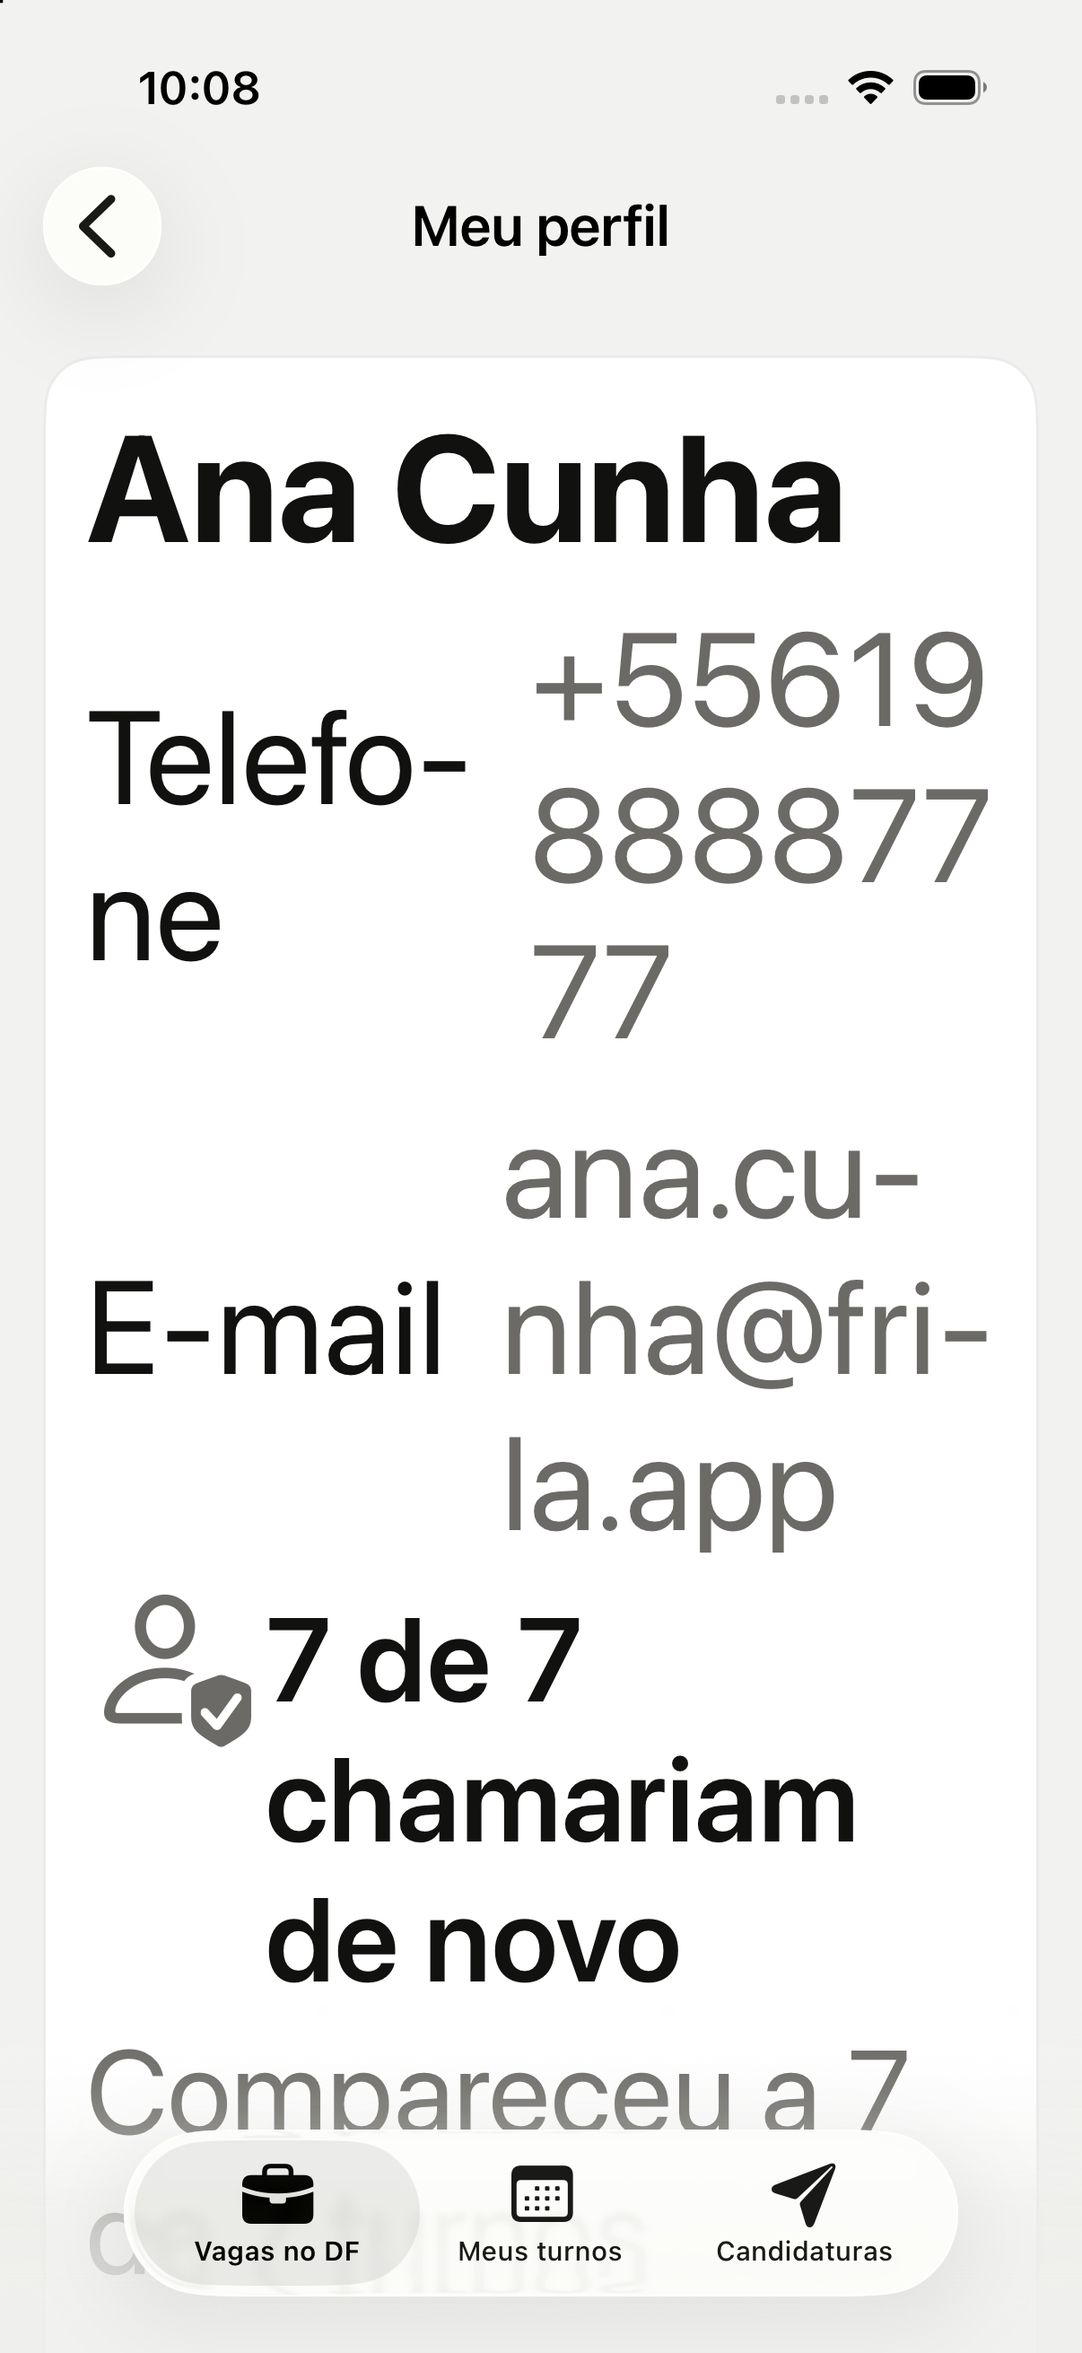
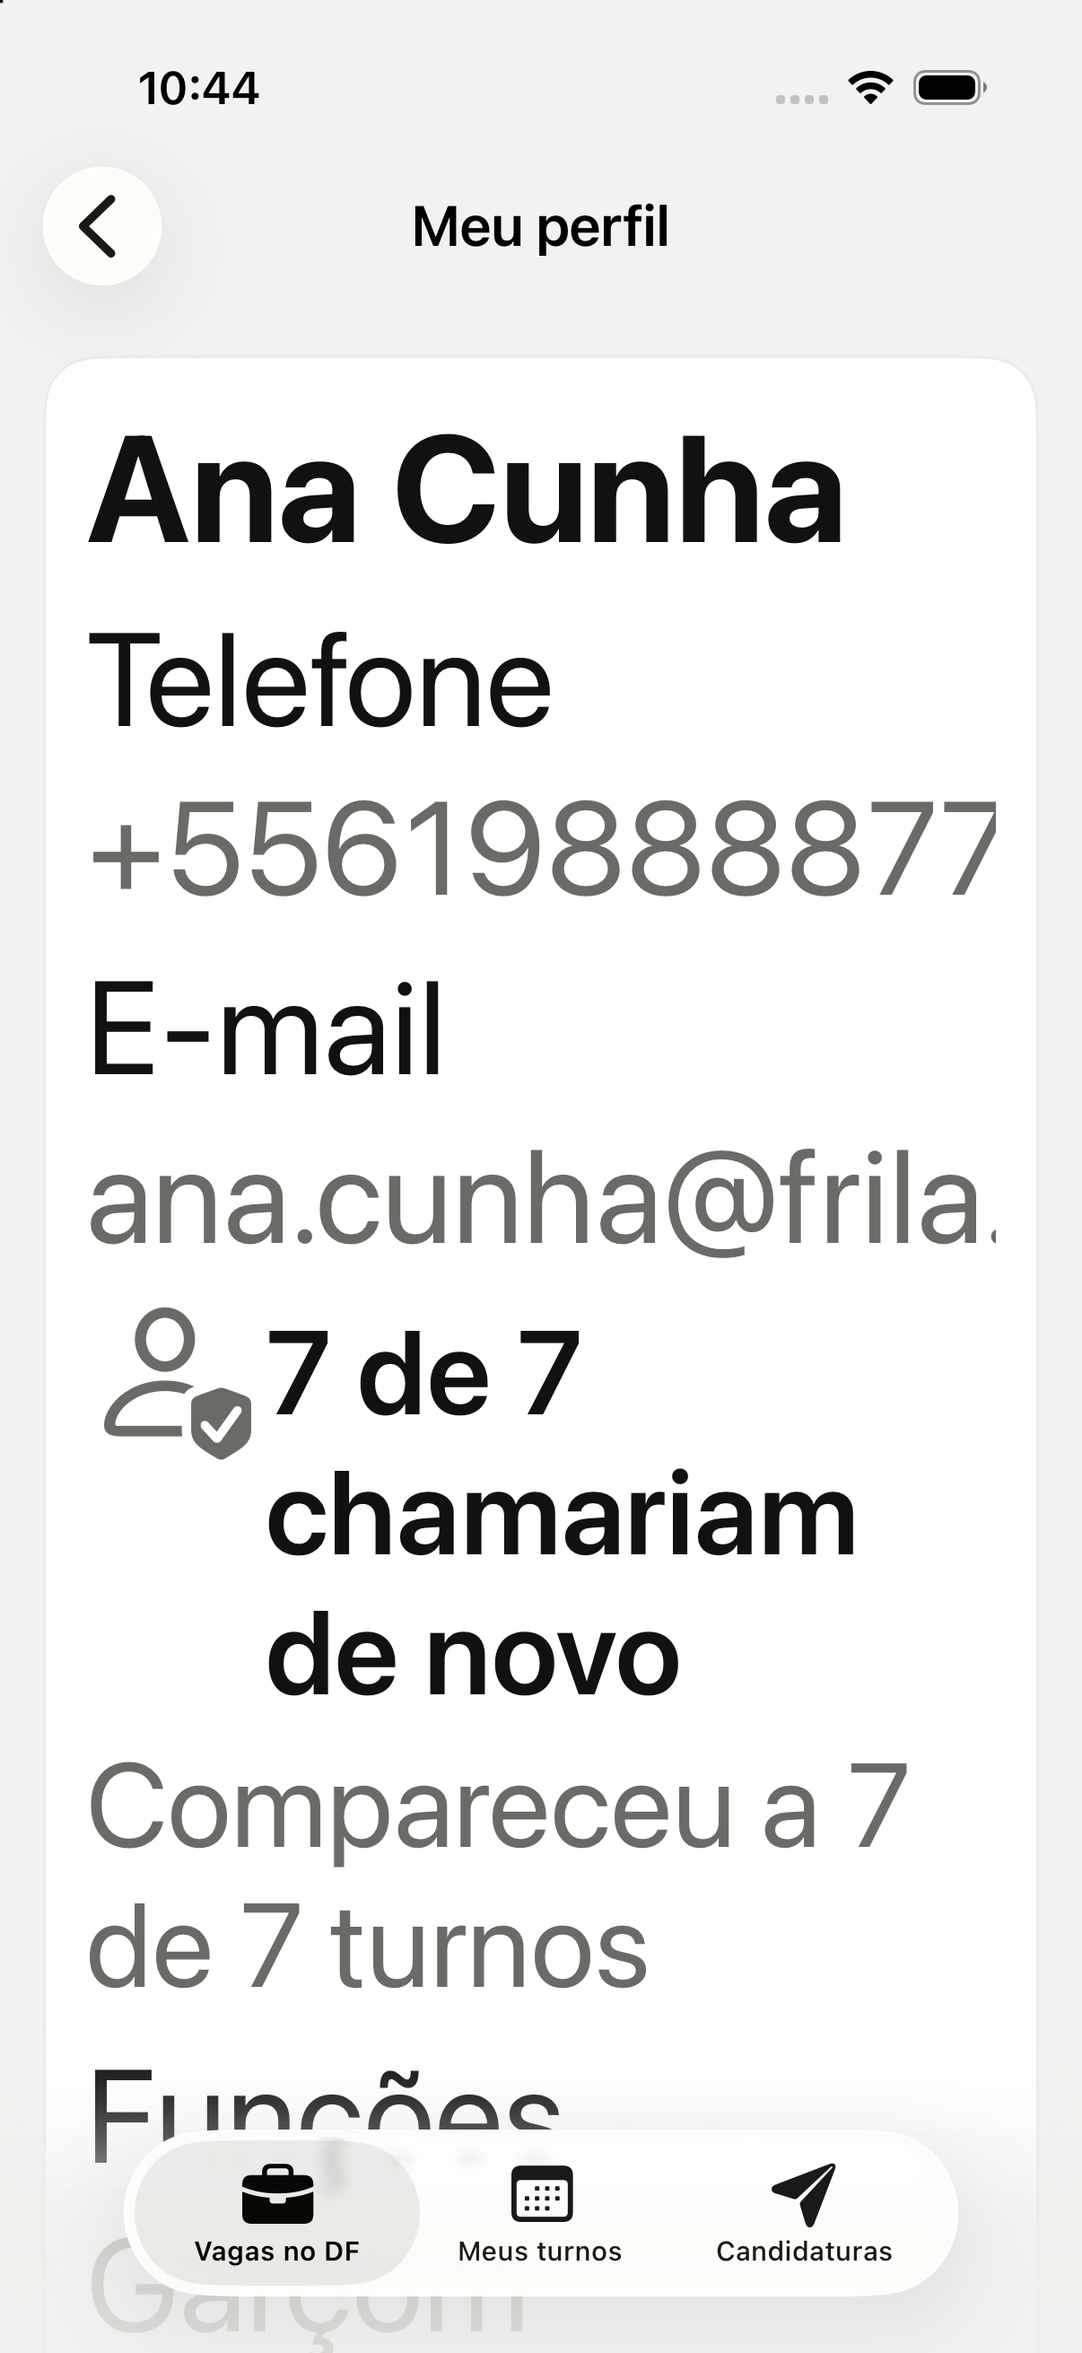
fix(ios): empilhar dados de Meu perfil em acessibilidade

diff --git a/iOS/Sources/Apresentacao/Fluxos/Perfil/PerfisDaConta.swift b/iOS/Sources/Apresentacao/Fluxos/Perfil/PerfisDaConta.swift
@@ -162,6 +162,7 @@ struct BotaoDeExclusaoDeConta: View {
 
 /// Perfil do profissional (#18), no quadro "MeuPerfil" do MidFi do Fabrício: dados no cartão, linhas num cartão único com chevron e "Excluir conta" de contorno.
 public struct TelaMeuPerfilProfissional: View {
+    @Environment(\.dynamicTypeSize) private var dynamicTypeSize
     @State private var despachoModel: PorQueReceboVagasViewModel
     @State private var model: MeuPerfilProfissionalViewModel
     @State private var exportarModel: ExportarDadosViewModel
@@ -188,11 +189,11 @@ public struct TelaMeuPerfilProfissional: View {
                 else if let conta = model.conta, let perfil = model.perfil {
                     VStack(alignment: .leading, spacing: FrilaEspaco.pequeno) {
                         Text(verbatim: conta.nome).font(Font.title2.bold()).foregroundStyle(FrilaCor.texto).accessibilityAddTraits(.isHeader)
-                        linha(TextosPerfilConta.telefone, conta.telefone)
-                        linha(TextosPerfilConta.email, conta.email)
+                        linha(TextosPerfilConta.telefone, conta.telefone, id: "perfil-telefone", contato: true)
+                        linha(TextosPerfilConta.email, conta.email, id: "perfil-email", contato: true)
                         if let reputacao = model.perfilPublico?.reputacao { SeloReputacao(reputacao) }
-                        linha(TextosPerfilConta.funcao, perfil.funcoes.map(\.nome).joined(separator: ", "))
-                        linha(TextosPerfilConta.horarios, perfil.disponibilidades.isEmpty ? TextosPerfilConta.naoInformado : String(localized: "\(perfil.disponibilidades.count) horários cadastrados", bundle: bundleApresentacao))
+                        linha(TextosPerfilConta.funcao, perfil.funcoes.map(\.nome).joined(separator: ", "), id: "perfil-funcoes")
+                        linha(TextosPerfilConta.horarios, perfil.disponibilidades.isEmpty ? TextosPerfilConta.naoInformado : String(localized: "\(perfil.disponibilidades.count) horários cadastrados", bundle: bundleApresentacao), id: "perfil-horarios")
                     }
                     .frame(maxWidth: .infinity, alignment: .leading)
                     .cartaoFrila()
@@ -240,17 +241,37 @@ public struct TelaMeuPerfilProfissional: View {
         .sheet(isPresented: $mostrarAjuda) { TelaAjudaPerfil(enderecos: enderecos) }
     }
 
-    private func linha(_ titulo: String, _ valor: String) -> some View {
-        LabeledContent {
-            Text(verbatim: valor.isEmpty ? TextosPerfilConta.naoInformado : valor)
-                .font(FrilaTipo.meta)
-                .foregroundStyle(FrilaCor.textoSecundario)
-        } label: {
-            Text(verbatim: titulo)
-                .font(FrilaTipo.meta)
-                .foregroundStyle(FrilaCor.texto)
+    @ViewBuilder
+    private func linha(_ titulo: String, _ valor: String, id: String, contato: Bool = false) -> some View {
+        let rotulo = Text(verbatim: titulo)
+            .font(FrilaTipo.meta)
+            .foregroundStyle(FrilaCor.texto)
+            .accessibilityIdentifier("\(id)-rotulo")
+        let conteudo = Text(verbatim: valor.isEmpty ? TextosPerfilConta.naoInformado : valor)
+            .font(FrilaTipo.meta)
+            .foregroundStyle(FrilaCor.textoSecundario)
+            .accessibilityIdentifier("\(id)-valor")
+        if dynamicTypeSize.isAccessibilitySize {
+            VStack(alignment: .leading, spacing: FrilaEspaco.minimo) {
+                rotulo.fixedSize(horizontal: false, vertical: true)
+                if contato {
+                    // Contatos longos permanecem inteiros, com o fim acessível por rolagem.
+                    ScrollView(.horizontal) {
+                        conteudo.fixedSize(horizontal: true, vertical: false)
+                            .frame(minHeight: FrilaMetrica.alvoMinimo, alignment: .leading)
+                    }
+                    .fixedSize(horizontal: false, vertical: true)
+                    .accessibilityIdentifier("\(id)-rolagem")
+                } else {
+                    conteudo.fixedSize(horizontal: false, vertical: true)
+                }
+            }
+            .frame(maxWidth: .infinity, alignment: .leading)
+            .accessibilityElement(children: .contain)
+        } else {
+            LabeledContent { conteudo } label: { rotulo }
+                .accessibilityElement(children: .combine)
         }
-        .accessibilityElement(children: .combine)
     }
 
     /// "Excluir conta" do MidFi: botão de contorno `perigo` num cartão próprio, longe das linhas comuns.

diff --git a/iOS/Tests/UI/AcessibilidadeDoProfissionalUITests.swift b/iOS/Tests/UI/AcessibilidadeDoProfissionalUITests.swift
@@ -153,6 +153,75 @@ final class AcessibilidadeDoProfissionalUITests: XCTestCase {
         conferirDisponibilidade(ax5: true)
     }
 
+    func testMeuPerfilContatosNoTamanhoPadrao() {
+        conferirContatosDoPerfil(ax5: false)
+    }
+
+    func testMeuPerfilContatosEmAX5SemPartirValores() {
+        conferirContatosDoPerfil(ax5: true)
+    }
+
+    private func conferirContatosDoPerfil(ax5: Bool) {
+        let app = XCUIApplication()
+        app.launchArguments = ["-FRILA_SCENARIO", "success"]
+        if ax5 { app.launchArguments += ["-UIPreferredContentSizeCategoryName", Self.ax5] }
+        app.launch()
+        defer { app.terminate() }
+        let perfil = app.buttons["abrir-meu-perfil"]
+        XCTAssertTrue(perfil.waitForExistence(timeout: 10))
+        perfil.tap()
+        XCTAssertTrue(app.buttons["perfil-funcoes-horarios"].waitForExistence(timeout: 10))
+        capturarDisponibilidade(app, nome: ax5 ? "perfil-ax5" : "perfil-padrao")
+
+        let categoria: UIContentSizeCategory = ax5 ? .accessibilityExtraExtraExtraLarge : .large
+        let fonte = UIFont.preferredFont(forTextStyle: .subheadline, compatibleWith: UITraitCollection(preferredContentSizeCategory: categoria))
+        for id in ["perfil-telefone", "perfil-email", "perfil-funcoes", "perfil-horarios"] {
+            let rotulo = app.staticTexts["\(id)-rotulo"]
+            let valor = app.staticTexts["\(id)-valor"]
+            guard rotulo.exists && valor.exists else {
+                XCTFail("Rótulo e valor identificáveis: \(id)")
+                return
+            }
+            if ax5 {
+                for _ in 0..<10 where !valor.isHittable { app.swipeUp() }
+                XCTAssertGreaterThanOrEqual(valor.frame.minY, rotulo.frame.maxY, "\(id): rótulo acima do valor")
+                XCTAssertTrue(valor.isHittable, id)
+            } else {
+                XCTAssertLessThan(abs(rotulo.frame.midY - valor.frame.midY), 2, "\(id): aparência horizontal preservada")
+            }
+            if id == "perfil-telefone" || id == "perfil-email" {
+                XCTAssertEqual(valor.label, id == "perfil-telefone" ? "+5561988887777" : "ana.cunha@frila.app")
+                XCTAssertGreaterThanOrEqual(valor.frame.height, fonte.lineHeight - 2, "A fonte acompanha Dynamic Type sem encolher")
+                XCTAssertLessThan(valor.frame.height, fonte.lineHeight * 1.5, "Contato inteiro em uma linha, sem hifenização")
+                if ax5 {
+                    let rolagem = app.scrollViews["\(id)-rolagem"]
+                    XCTAssertTrue(rolagem.exists)
+                    XCTAssertAlvoMinimo(rolagem.frame.height)
+                    XCTAssertLessThanOrEqual(rolagem.frame.maxX, app.frame.maxX)
+                    if valor.frame.width > rolagem.frame.width {
+                        let xAntes = valor.frame.minX
+                        rolagem.swipeLeft()
+                        XCTAssertLessThan(valor.frame.minX, xAntes, "O fim do contato fica acessível por rolagem")
+                        XCTAssertLessThanOrEqual(valor.frame.maxX, rolagem.frame.maxX + 2)
+                    }
+                }
+            }
+            if ax5 && id == "perfil-email" {
+                capturarDisponibilidade(app, nome: "perfil-ax5-contatos-fim")
+            }
+        }
+        if ax5 {
+            let funcoes = app.staticTexts["perfil-funcoes-rotulo"]
+            for _ in 0..<4 where funcoes.frame.minY < 130 {
+                let inicio = app.coordinate(withNormalizedOffset: CGVector(dx: 0.04, dy: 0.30))
+                let fim = app.coordinate(withNormalizedOffset: CGVector(dx: 0.04, dy: 0.43))
+                inicio.press(forDuration: 0.05, thenDragTo: fim)
+            }
+            XCTAssertGreaterThanOrEqual(funcoes.frame.minY, 130)
+            capturarDisponibilidade(app, nome: "perfil-ax5-funcoes-horarios")
+        }
+    }
+
     private func conferirDisponibilidade(ax5: Bool) {
         let app = XCUIApplication()
         app.launchArguments = ["-FRILA_SCENARIO", "success"]

diff --git a/evidencias/ux-04-perfil-profissional/README.md b/evidencias/ux-04-perfil-profissional/README.md
@@ -10,9 +10,15 @@ Editar dia, início ou fim marca a faixa como pendente. Salvar inclui essa faixa
 
 Início igual ao fim bloqueia o envio. Fim anterior ao início continua válido, inclusive 18:00–02:00 e 23:59–00:00, conforme esclarecimento de Nick Fury (#98 C2). A devolução acrescenta três testes: 23:59–00:00 aceito, 00:00–00:00 rejeitado sem chamada à API e inválido → salvar → corrigir → salvar com mensagem limpa.
 
+## Meu perfil — devolução 2
+
+Em tamanhos de acessibilidade, Telefone, E-mail, Funções e Horários disponíveis têm rótulo acima do valor. O tamanho padrão conserva o `LabeledContent` horizontal, as fontes, as cores e os espaçamentos anteriores. A comparação visual da nova captura padrão com a do head `8a8b903` preserva a aparência do conteúdo.
+
+Telefone e e-mail usam uma linha com largura natural e rolagem horizontal, sem hifenização, reticências nem redução da fonte. Em AX5, ambos excedem a largura disponível: a captura inicial mostra o começo, e `perfil-ax5-contatos-fim.png` mostra o final após a rolagem. O texto completo permanece na árvore de acessibilidade. O alvo da rolagem tem altura mínima de 44 pt. Funções e Horários podem ocupar várias linhas abaixo dos rótulos, sem limite artificial de altura.
+
 ## Ambiente e capturas desta revisão
 
-17/10/2026, 10:07–10:08, simulador Homem-Aranha, iPhone 17, iOS 26.5, UDID `85940BCB-553C-4145-8F8E-E83423D86431`; dados fictícios do cenário `success`. Resolução original: 1206 × 2622 pixels. Tamanho padrão e `UICTContentSizeCategoryAccessibilityXXXL` (AX5).
+17/10/2026: capturas de horários às 10:07–10:08; as imagens de Meu perfil foram substituídas na devolução 2 às 10:44–10:45 (horário visível em cada imagem). Simulador Homem-Aranha, iPhone 17, iOS 26.5, UDID `85940BCB-553C-4145-8F8E-E83423D86431`; dados fictícios do cenário `success`. Resolução original: 1206 × 2622 pixels. Tamanho padrão e `UICTContentSizeCategoryAccessibilityXXXL` (AX5).
 
 O portal não fornecia stream com o canvas fechado. Por autorização expressa do usuário, as imagens foram obtidas com `xcrun simctl io <UDID> screenshot <arquivo>`, somente nesse UDID, segurando a vez pela fila. Navegação e rolagens foram feitas por XCTest. Não foi aberto o aplicativo Simulator. As pausas temporárias usadas para sincronizar a coleta foram removidas do teste entregue; os anexos XCTest permanecem.
 
@@ -20,15 +26,27 @@ O portal não fornecia stream com o canvas fechado. Por autorização expressa d
 | --- | --- |
 | [horarios-padrao.png](horarios-padrao.png) | Dia inteiro, duas rodas contidas nas colunas, Início/Fim, Adicionar e janela noturna existente |
 | [horarios-ax5.png](horarios-ax5.png) | “Sexta-feira” inteiro em AX5, duas rodas lado a lado e Adicionar visível |
-| [perfil-padrao.png](perfil-padrao.png) | Tela vizinha Meu perfil, antes de abrir Funções e horários |
-| [perfil-ax5.png](perfil-ax5.png) | Tela vizinha em AX5; quebras de linha existentes no telefone/e-mail, sem alteração nesta missão |
+| [perfil-padrao.png](perfil-padrao.png) | Nova captura: aparência horizontal de Meu perfil preservada no tamanho padrão |
+| [perfil-ax5.png](perfil-ax5.png) | Nova captura AX5: rótulos Telefone/E-mail acima dos valores, contatos em linha única na posição inicial |
+| [perfil-ax5-contatos-fim.png](perfil-ax5-contatos-fim.png) | AX5 após rolagem horizontal: final do telefone e do e-mail acessíveis |
+| [perfil-ax5-funcoes-horarios.png](perfil-ax5-funcoes-horarios.png) | AX5 após rolagem vertical: Funções e Horários disponíveis com rótulo acima do valor |
 
-## Testes executados nesta revisão
+## Validação da devolução 2
+
+- Regressão com o código final, sem pausas de captura: **1.265 passaram, 0 falharam, 0 pulados**. Inclui todos os **1.250 unitários** (`FrilaTests`) e a classe completa **AcessibilidadeDoProfissionalUITests, 15 testes**. Comando: `vigia/xcb.sh 'Homem-Aranha' -- xcodebuild test -project iOS/Frila.xcodeproj -scheme Frila-Local -destination 'platform=iOS Simulator,id=85940BCB-553C-4145-8F8E-E83423D86431' -derivedDataPath DerivedData-UX04-Devolucao2 -resultBundlePath resultados-ux04-devolucao2-final -parallel-testing-enabled NO -collect-test-diagnostics never -only-testing:FrilaTests -only-testing:FrilaUITests/AcessibilidadeDoProfissionalUITests CODE_SIGNING_ALLOWED=YES CODE_SIGN_IDENTITY=-`.
+- Log final: `/Users/cauecarneiro/Documents/Projetos/Apps/.workers/vigia/logs-xcodebuild/homem-aranha-20261017-104036-85517.log`.
+- Os dois testes novos conferem os quatro pares de rótulo/valor: alinhamento horizontal no padrão e rótulo acima do valor em AX5; contatos com texto completo, altura compatível com a fonte escalada e uma única linha; viewport contido no cartão e alvo mínimo de 44 pt; rolagem até o fim de telefone/e-mail. Também percorrem os campos inferiores, deixando Funções fora da barra de navegação para a captura. Os testes anteriores de rodas, janela noturna, rótulos e alvos continuam na classe executada.
+- A primeira passagem da classe, com sincronização de capturas, também passou: **15/15**, sem falhas nem pulados. Log: `/Users/cauecarneiro/Documents/Projetos/Apps/.workers/vigia/logs-xcodebuild/homem-aranha-20261017-103546-69124.log`.
+- Coleta final das quatro imagens de Meu perfil: **2 testes passaram, 0 falhas, 0 pulados**, log `/Users/cauecarneiro/Documents/Projetos/Apps/.workers/vigia/logs-xcodebuild/homem-aranha-20261017-104425-93902.log`. As pausas de sincronização foram removidas depois da coleta; o arquivo entregue foi conferido como idêntico ao da regressão final sem pausas. Todas as novas imagens foram abertas e conferidas visualmente.
+- Portões `conferir-textos.sh`, `conferir-datas-fixas.sh` e `git diff --check`: aprovados.
+- Revisão `swiftui-pro` limitada ao diff de Meu perfil: sem erro adicional. Nenhuma fonte foi reduzida e nenhum texto novo entrou na interface.
+
+## Validação da primeira devolução (histórico)
 
 Todos os comandos Xcode passaram por `vigia/xcb.sh 'Homem-Aranha' -- xcodebuild test`, esquema `Frila-Local`, destino acima, paralelismo desativado e DerivedData próprio. As execuções direcionadas usaram `CODE_SIGNING_ALLOWED=NO`; a suíte completa final usou assinatura ad hoc (`CODE_SIGNING_ALLOWED=YES CODE_SIGN_IDENTITY=-`), como exige o acesso real ao Keychain no simulador.
 
 - Classes `PerfilProfissionalViewModelTests` e `PerfisDaContaTests`: **46 passaram, 0 falharam**, incluindo os três novos testes pedidos na devolução. Log: `/Users/cauecarneiro/Documents/Projetos/Apps/.workers/vigia/logs-xcodebuild/homem-aranha-20261017-100312-97102.log`. A inspeção das primeiras imagens desta execução identificou desenho das rodas fora das colunas; essa versão foi corrigida e suas capturas substituídas.
-- Dois testes UI, padrão e AX5, com a altura e contenção finais: **2 passaram, 0 falharam**. Esta execução gerou as quatro imagens acima. Conferiu largura e altura mínimas de 44 pt em dia, Adicionar, Remover e rodas; nomes/valor do dia; rótulos Início/Fim e Adicionar horário; tocabilidade; troca do dia pelo menu; rolagem sem mudar a hora. Log: `/Users/cauecarneiro/Documents/Projetos/Apps/.workers/vigia/logs-xcodebuild/homem-aranha-20261017-100711-11445.log`.
+- Dois testes UI, padrão e AX5, com a altura e contenção finais: **2 passaram, 0 falharam**. Esta execução gerou as imagens de horários mantidas acima e as imagens de Meu perfil substituídas na devolução 2. Conferiu largura e altura mínimas de 44 pt em dia, Adicionar, Remover e rodas; nomes/valor do dia; rótulos Início/Fim e Adicionar horário; tocabilidade; troca do dia pelo menu; rolagem sem mudar a hora. Log: `/Users/cauecarneiro/Documents/Projetos/Apps/.workers/vigia/logs-xcodebuild/homem-aranha-20261017-100711-11445.log`.
 - Regressão final sem pausas de captura, com `-only-testing:FrilaTests` e os dois testes UI acima: **1.252 passaram, 0 falharam, 0 pulados** (1.250 unitários e 2 UI). Log: `/Users/cauecarneiro/Documents/Projetos/Apps/.workers/vigia/logs-xcodebuild/homem-aranha-20261017-101048-15621.log`.
 - A tentativa de suíte completa sem assinatura falhou em 6 testes de Keychain (9 ocorrências, incluindo `-34018`). A repetição com assinatura ad hoc resolveu essas falhas sem mudança de código. Log da tentativa sem assinatura: `/Users/cauecarneiro/Documents/Projetos/Apps/.workers/vigia/logs-xcodebuild/homem-aranha-20261017-100916-13759.log`.
 - `iOS/Scripts/conferir-textos.sh`, `iOS/Scripts/conferir-datas-fixas.sh` e `git diff --check`: aprovados.

diff --git a/iOS/Docs/Acessibilidade.md b/iOS/Docs/Acessibilidade.md
@@ -393,3 +393,10 @@ Início e fim iguais bloqueiam o envio; faixas noturnas continuam aceitas (#98 C
 A revisão `swiftui-pro` ficou restrita ao diff: estado no modelo observável, bindings
 diretos, controles nativos e APIs disponíveis desde o iOS 17. A prova visual e os
 resultados executados estão em `evidencias/ux-04-perfil-profissional/README.md`.
+
+Na tela vizinha Meu perfil, os tamanhos de acessibilidade empilham os rótulos de
+Telefone, E-mail, Funções e Horários disponíveis acima dos valores. Telefone e
+e-mail ficam em uma única linha com rolagem horizontal quando excedem o cartão,
+sem hifenização, truncamento do conteúdo ou redução da fonte. O valor completo
+continua na árvore de acessibilidade; rótulo e valor são lidos em sequência. No
+tamanho padrão, o `LabeledContent` e os tokens anteriores são preservados.
